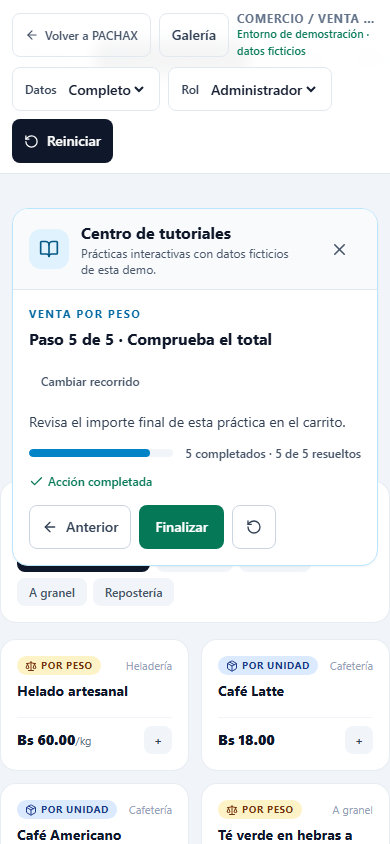
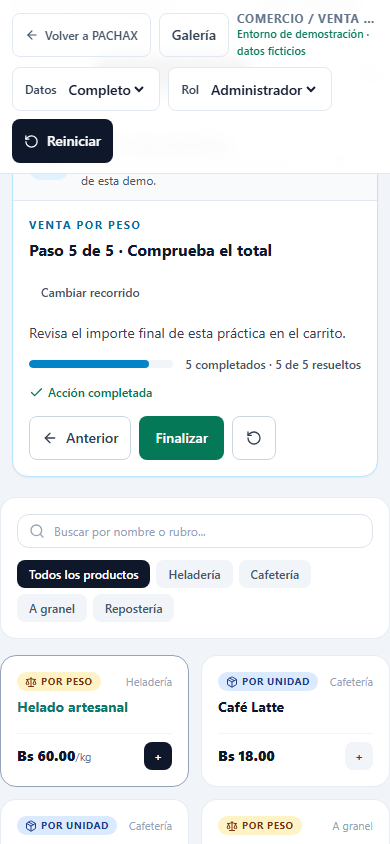
fix(demo): keep retail tutorial controls unobstructed

diff --git a/src/demo/quick-retail/QuickRetailTutorialCenter.tsx b/src/demo/quick-retail/QuickRetailTutorialCenter.tsx
@@ -97,7 +97,7 @@ export function QuickRetailTutorialCenter({
   }
 
   return (
-    <section className={`mx-3 mb-4 overflow-hidden rounded-2xl border border-sky-200 bg-white shadow-sm sm:mx-5 ${tutorial ? 'sticky top-[calc(13rem+env(safe-area-inset-top))] z-40 sm:top-[calc(5rem+env(safe-area-inset-top))] lg:static' : ''}`} aria-label="Centro de tutoriales de Comercio">
+    <section className="mx-3 mb-4 overflow-hidden rounded-2xl border border-sky-200 bg-white shadow-sm sm:mx-5" aria-label="Centro de tutoriales de Comercio">
       <style>{`.quick-retail-tutorial-highlight{position:relative!important;z-index:8!important;outline:3px solid #0ea5e9!important;outline-offset:3px!important;box-shadow:0 0 0 6px rgb(14 165 233 / .14)!important;scroll-margin:1rem!important}`}</style>
       <header className="flex flex-nowrap items-center justify-between gap-3 border-b border-slate-200 bg-slate-50 px-4 py-3 sm:px-5">
         <div className="flex min-w-0 items-center gap-3">

diff --git a/docs/retail-learning-center.md b/docs/retail-learning-center.md
@@ -15,6 +15,7 @@
 - `RestaurantLearningCenter` y `restaurantLearningCenter` aportan referencias de catálogo de recorridos, estados de progreso y acciones. No se importan porque dependen de dominio y permisos de Restaurante.
 - Distribución y Nightclub muestran patrones útiles de tutorial contextual, resaltado, pasos y objetivos semánticos; sus centros conservan estado y dependencias de sus propias plantillas. No se reutilizan directamente en el bundle Retail.
 - `QuickRetailTutorialCenter` y `quickRetailTutorials` son propios de la demo aislada. El progreso responde a eventos tipados emitidos por controles reales. Los controles usan `data-tutorial-target` semánticos; avanzar por texto o mostrar una instrucción no completa un paso. Los pasos pueden quedar completados, omitidos o pendientes.
+- Cuando un recorrido está activo, el Centro permanece en el flujo del documento y no se adhiere sobre el catálogo. Así el desplazamiento de enfoque no cubre los controles de venta; los cuadros de peso y cobro conservan prioridad visual y su entrada sigue accesible.
 - Al cambiar o reiniciar un recorrido se limpian búsqueda y categoría, pero se conserva el carrito. Con dataset vacío solo está disponible el recorrido de orientación; su paso de selección de producto se puede omitir y los pasos restantes se completan. Si el rol simulado no puede usar el POS, el centro lo explica y permite cambiar el rol desde el control existente.
 - Cobro demostrativo inicia con un paso real para agregar un producto de unidad antes de revisar el carrito. No inserta artículos automáticamente; al completar el paso, el POS habilita “Cobrar Venta”. Quien ya tenga un artículo puede omitir la preparación.
 - `GuidedTutorialsSection.tsx` abre el centro mediante el botón de la misma demo en el iframe same-origin. La demo independiente presenta el mismo botón. Las otras plantillas mantienen sus activadores y centros.
@@ -29,6 +30,7 @@ El script `scripts/test-demo-app-integration-browser.mjs` valida las demos aisla
 - El navegador comprobó ambas rutas de demo (completa y vacía) en 9 anchos: 320, 360, 375, 390, 430, 768, 1024, 1440 y 1920 px; sin overflow horizontal.
 - Los cinco recorridos se iniciaron desde un runtime recién recargado y se completaron independientemente a 390 y 1440 px. Cobro comenzó con carrito vacío, exigió agregar Café Latte manualmente, comprobó que el botón de cobro se habilita después y cerró el pago QR ficticio. Orientación vacía completó sus pasos restantes omitiendo el paso de producto.
 - También se probaron añadir/incrementar unidad, ingresar gramos manualmente, cálculo y agregado por peso, comprobante, reinicio del tutorial, cambio de recorrido, omisión, cierre/reapertura con progreso conservado, dataset vacío y rol sin acceso al POS.
+- El recorrido por peso se valida además con clics CDP de puntero sobre el producto y comprobación de que el campo de gramos está visible y recibe el puntero a 390 px; los `.click()` DOM sintéticos no detectaban una obstrucción visual real.
 - El runtime aislado no realizó solicitudes externas ni errores de navegador; el guard reportó 0 referencias prohibidas y 0 sourcemaps. Solicitudes a Firebase Production: 0. CSP continúa con `connect-src 'none'`.
 - El test de landing se ejecutó en las 9 resoluciones, incluyendo abrir el Centro dentro del iframe para Comercio. El CTA espera a que el control se habilite cuando la demo termina de montar.
 - Las tres conexiones rechazadas en la consola de la landing corresponden a endpoints locales de emulador apagados; no hubo solicitudes a Production.

diff --git a/CONTEXTO.md b/CONTEXTO.md
@@ -1,5 +1,13 @@
 # Continuidad del proyecto PACHAX
 
+## Seguimiento posterior al merge de Fase B — 06/11/2026
+
+- PR #29 quedó fusionado a `main` en `94fb4b64163efbc0bf00383e8385dfd6f7f58ebb`; el deployment de Vercel Production asociado está READY. La demo de Comercio carga desde la sección pública y el Centro abre con cinco recorridos.
+- En una comprobación real con puntero del recorrido por peso se detectó que el panel sticky podía cubrir el primer producto en el POS embebido. El código del Centro también quedaba por debajo del campo modal al desplazarse a ese producto. La corrección elimina la adhesión que superponía el catálogo y fortalece la prueba para usar un puntero real y verificar el foco del campo de gramos.
+- La corrección está aislada en `codex/pachax-retail-tutorial-production-followup-20261106`, basada en `origin/main` del merge de PR #29. TypeScript, ESLint focal, build de emulador, rutas demo, contrato de integración, guard de runtime aislado, aislamiento Firebase y cinco recorridos de la demo pasan; el runner informa 0 solicitudes a Firebase Production.
+- La regresión de landing no concluyó: el servidor local no pudo verificar el estado de ofertas porque los emuladores/comercial config no estaban disponibles (`ERR_CONNECTION_REFUSED`); la prueba terminó en una aserción de precios ajena al runtime aislado. No se ejecutó ninguna escritura.
+- Se prepara un PR correctivo separado para revisión; no se hizo merge ni despliegue de este follow-up. Billing Core, Firebase, Auth, App Check, Functions, Rules y otras plantillas permanecen sin cambios. El rediseño de mapas de Restaurante sigue pendiente y no se inició.
+
 # Hotfix: demos aisladas embebibles solo same-origin (06/11/2026)
 
 - Tras integrar PR #27 (`69c77d9`) y revisar `https://platform.pachax.net`, las demos Hamburger/Retail cargaban por ruta independiente, pero la landing recibía el rechazo de conexión dentro de Tutoriales. Los encabezados de `/demo/hamburger`, `/demo/retail` y `/demo-isolated.html` imponían `frame-ancestors 'none'` y `X-Frame-Options: DENY`; el marcador runtime nunca podía llegar al host.
